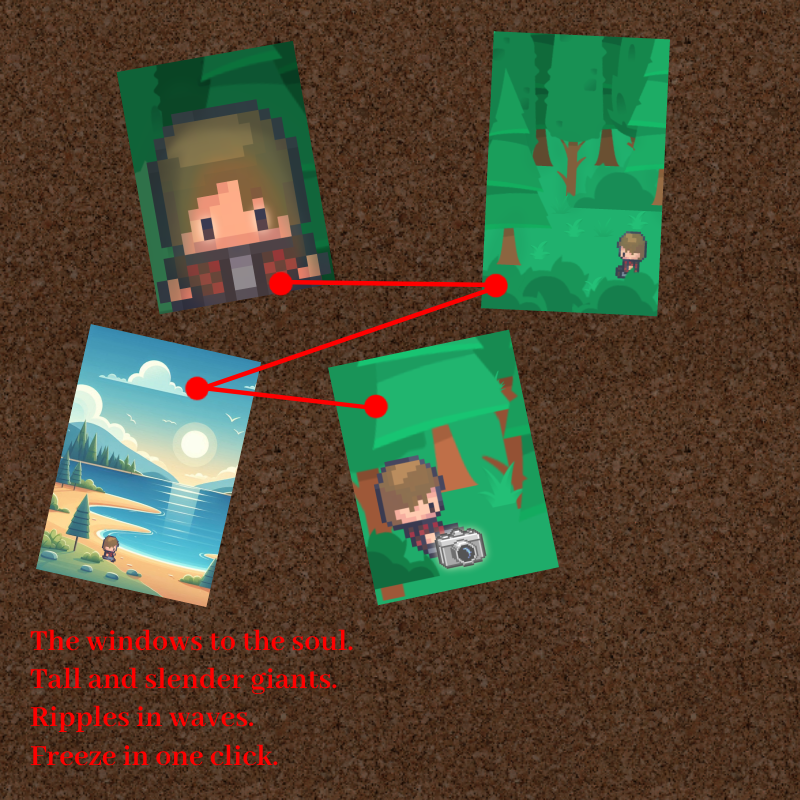
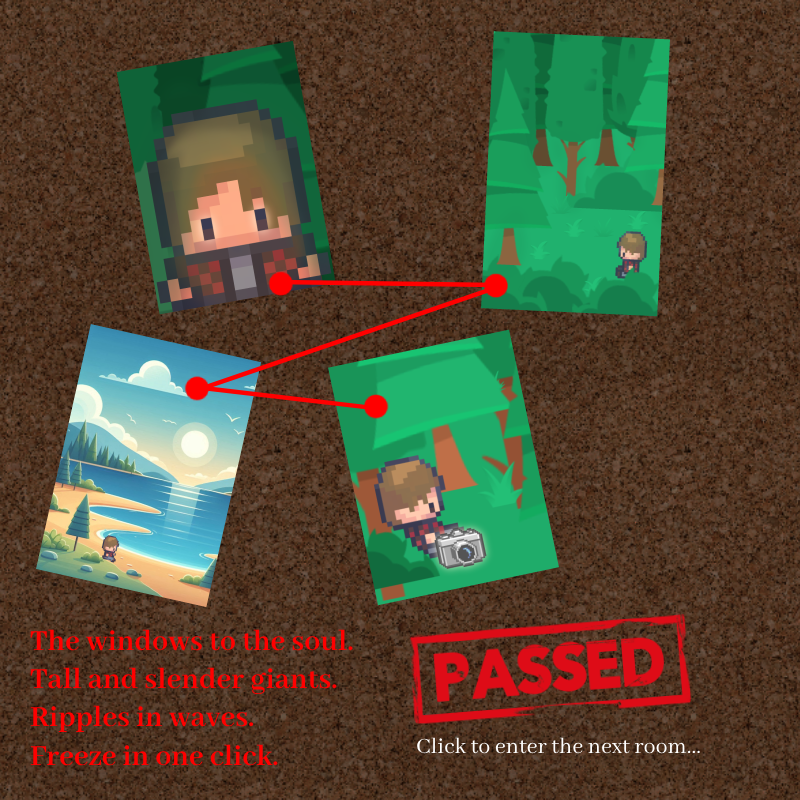
Implemented a password for room 2

Changed region(s): [[0.5, 0.75, 0.875, 0.9375]]

diff --git a/Sketch.java b/Sketch.java
@@ -110,7 +110,7 @@ public class Sketch extends PApplet {
 
   // Sets the passwords of the doors
   String[] strPasswords = {"", "", ""};
-  String[] strTargPass = {"2    4    1    3    ", "666", "Alex"};
+  String[] strTargPass = {"2 4 1 3 ", "6 6 6 ", "Alex"};
 
   // Array for the door objects drawn in the rooms
   PImage[] doors = new PImage[6];
@@ -148,13 +148,16 @@ public class Sketch extends PApplet {
 
   // Related arrays for the button images, x coordinates, and y coordinates for the second password
   PImage[] doorSecButt = new PImage[10];
-  int[] doorSecX;
-  int[] doorSecY;
+  int[] doorSecX = new int[10];
+  int[] doorSecY = new int[10];
 
   // Number of attempts for the first, second, and third password
   int intFirAtmpts = 3;
   int intSecAtmpts = 3;
   int intThiAtmpts = 3;
+
+  // PImage goodEnding;
+  PImage badEnding;
 
   // Set the size of the window
   public void settings() {
@@ -186,8 +189,8 @@ public class Sketch extends PApplet {
     roomOnePageY = new int[]{height * 254/800, height * 661/800, height * 663/800, height * 253/800};
 
     // Intializes the x and y values of the pages in room two based on the window size
-    roomTwoPageX = new int[]{width * 622/800, width * 506/800, width * 109/800};
-    roomTwoPageY = new int[]{height * 417/800, height * 291/800, height * 260/800};
+    roomTwoPageX = new int[]{width * 313/800, width * 506/800, width * 109/800};
+    roomTwoPageY = new int[]{height * 648/800, height * 291/800, height * 260/800};
 
     // Intializes the x and y values of the pages in room three based on the window size
     roomThreePageX = new int[]{width * 163/800, width * 549/800, width * 598/800, width * 321/800, width * 406/800, width * 246/800};
@@ -201,9 +204,26 @@ public class Sketch extends PApplet {
     doorFirstX = new int[] {373, 471, 569, 666};
     doorFirstY = new int[] {674, 674, 674, 674};
 
+    // Starting x and y values of the buttons in the second password
+    int intStartX = width * 100/800;
+    int intStartY = height * 400/800;
+
+    // Set the x and y positions of the buttons in the second password
+    for(int w = 0; w < doorSecButt.length; w++) {
+      
+      doorSecX[w] = intStartX;
+      doorSecY[w] = intStartY;
+      
+      if (intStartX == width * 580/800) {
+        intStartX = width * -20/800;
+        intStartY = width * 520/800;
+      }
+      intStartX += width * 120/800;
+    }
+
     // Set the x and y positions of the enter button for each of the three passwords
-    enterX = new int[] {666, 666, 666};
-    enterY = new int[] {588, 588, 588};
+    enterX = new int[] {width * 666/800, width * 580/800, 666};
+    enterY = new int[] {height * 588/800, height * 280/800, 588};
   }
 
   // Load and resize all images
@@ -357,6 +377,7 @@ public class Sketch extends PApplet {
     // Load all of the number buttons to be used in room 2
     for (int l = 0; l < doorSecButt.length; l ++) {
       doorSecButt[l] = loadImage("keyboard_" + l + ".png");
+      doorSecButt[l].resize(width * 96/800, height * 96/800);
     }
 
     cabinBack = loadImage("Cabin Room Template.png");
@@ -372,12 +393,23 @@ public class Sketch extends PApplet {
 
     // Load the stuff the doors show
     door1Text = loadImage("Door 1 Text.png");
-    door2Unpassed = loadImage("Door 2 Unpassed.png");
-    door2Unpassed.resize(width * door2Unpassed.width/800, height * door2Unpassed.height/800);
+    door2Unpassed = loadImage("Room 1 Code Unpassed.png");
+    door2Unpassed.resize(width, height);
     door2Passed = loadImage("Room 1 Code Pass.png");
+    door2Passed.resize(width, height);
+    door4Unpassed = loadImage("Room 2 Code Unpassed.png");
+    door4Unpassed.resize(width, height);
+    door4Passed = loadImage("Room 2 Code Passed.png");
+    door4Passed.resize(width, height);
+    door6Unpassed = loadImage("Room 3 Code Unpassed.png");
+    door6Unpassed.resize(width, height);
+
 
     enterButton = loadImage("enter.png");
     enterButton.resize(width * 96/800, height * 96/800);
+
+    badEnding = loadImage("BadEnding.png");
+    badEnding.resize(width, height);
 
   } 
 
@@ -400,7 +432,7 @@ public class Sketch extends PApplet {
     else if (intDraw == 3) {
       drawRoom1(); 
       drawAlex();
-      //detectWallCollision();
+      detectWallCollision();
       drawFlashlight();
       drawCurrentClue();
       doorResult();
@@ -411,22 +443,28 @@ public class Sketch extends PApplet {
       drawRoom2();
       drawAlex();
       //detectWallCollision();
-      //drawFlashlight();
+      drawFlashlight();
       drawCurrentClue();
+      doorResult();
     }
     // Draw room 3
     else if (intDraw == 5) {
       drawRoom3();
       drawAlex();
       //detectWallCollision();
-      //drawFlashlight();
+      drawFlashlight();
       drawCurrentClue();
+      doorResult();
+    }
+    else if (intDraw == 6) {
+      drawBadEnding();
     }
 
     // Temporary mouse coordinates for positioning purposes
-    textSize(16); // Set the text size
+    textSize(16); 
     String coords = "Mouse X: " + mouseX + ", Mouse Y: " + mouseY;
-    text(coords, 10, height - 20); // Display the coordinates at the bottom left
+    text(coords, 10, height - 20); 
+    
   }
   
   // Draws the start screen when intDraw = 0
@@ -529,6 +567,7 @@ public class Sketch extends PApplet {
   public void drawRoom2() {
     
     currentClueImage = null;
+    intCurDoor = -1;
 
     // Draws the background
     image(cabinBack, 0, 0);
@@ -549,6 +588,12 @@ public class Sketch extends PApplet {
       detectInteraction(roomTwoLetters[r], roomTwoPageX[r], roomTwoPageY[r], roomTwoPages[r].width, roomTwoPages[r].height);
     }
 
+    // Draws the doors in the room
+    image(doors[2], doorX[2], doorY[2]);
+    detectDoorInter(doorX[2], doorY[2], doors[2].width, doors[2].height, 2);
+    image(doors[3], doorX[3], doorY[3]);
+    detectDoorInter(doorX[3], doorY[3], doors[3].width, doors[3].height, 3);
+
     // Moves to the first room when Alex moves off to the left of the screen
     if (intAlexX < 0) {
       intDraw = 3;
@@ -565,6 +610,7 @@ public class Sketch extends PApplet {
   public void drawRoom3() {
 
     currentClueImage = null;
+    intCurDoor = -1;
 
     // Draws the background
     image(cabinBack, 0, 0);
@@ -590,7 +636,7 @@ public class Sketch extends PApplet {
       intDraw = 4;
       intAlexX = width;
     }
-    // Moves to the ending cutscene
+
   }
 
   // Detects collision with objects based on the x, y, width, and height parameters
@@ -651,8 +697,7 @@ public class Sketch extends PApplet {
         textSize(width * 50/800);
         text(strPasswords[0], width * 390/800, height * 650/800);
         
-        // Display the number of attempts left
-        fill(255, 0, 0);
+        // Determine the text size
         textSize(width * 20/800);
         
         // Turns the number of attempts left red when there is only one attempt left
@@ -662,7 +707,7 @@ public class Sketch extends PApplet {
         }
         // Ends the game when the player runs out of attempts
         else if (intFirAtmpts == 0) {
-          // Some end game thing here
+          intDraw = 6;
         }
         // Draws the number of attempts left white 
         else {
@@ -673,15 +718,56 @@ public class Sketch extends PApplet {
         image(enterButton, enterX[0], enterY[0]);
       }
       
+      // Draws the passed background when the player enters the correct password
       else if (boolDoorUnlocked[1]) {
         image(door2Passed, 0, 0);
       }
     }
     else if (intCurDoor == 2) {
-      intDraw = 3;
+      
     }
     else if (intCurDoor == 3) {
+      
+      if (!boolDoorUnlocked[3]) {
+        
+        // Display the background for the puzzle
+        image(door4Unpassed, 0, 0);
 
+        // Display the ten number keys to be clicked on
+        for (int g = 0; g < doorSecButt.length; g++) {
+          image(doorSecButt[g], doorSecX[g], doorSecY[g]);
+        }
+
+        // Display the password text
+        fill(255, 255, 255);
+        textSize(width * 50/800);
+        text(strPasswords[1], width * 122/800, height * 355/800);
+        
+        // Determine the text size
+        textSize(width * 20/800);
+        
+        // Turns the number of attempts left red when there is only one attempt left
+        if (intSecAtmpts == 1) {
+          fill(255, 0, 0);
+          text("Attempts Left: " + intSecAtmpts, width * 20/800, height * 30/800);
+        }
+        // Ends the game when the player runs out of attempts
+        else if (intSecAtmpts == 0) {
+          intDraw = 6;
+        }
+        // Draws the number of attempts left white 
+        else {
+          fill(255, 255, 255);
+          text("Attempts Left: " + intSecAtmpts, width * 20/800, height * 30/800);
+        }
+        // Draws the enter button
+        image(enterButton, enterX[1], enterY[1]);
+      }
+      
+      // Draws the passed background when the player enters the correct password
+      else if (boolDoorUnlocked[3]) {
+        image(door4Passed, 0, 0);
+      }
     }
     else if (intCurDoor == 4) {
 
@@ -714,15 +800,21 @@ public class Sketch extends PApplet {
 }
 
   public void detectWallCollision() {
-     if (intAlexX - alexIdleForward.width / 2 < width * 66/800 || intAlexX + alexIdleForward.width / 2 > 739 || intAlexY + alexIdleForward.height / 2 > width * 776/800 || intAlexY < height * 209/800){
+     if (intAlexX - alexIdleForward.width / 2 < width * 66/800 || intAlexX + alexIdleForward.width / 2 > width * 739/800 || intAlexY + alexIdleForward.height / 2 > height * 776/800 || intAlexY < height * 209/800){
       
       intAlexX = intAlexPrevX;
       intAlexY = intAlexPrevY;
      }
   }
 
-  public void drawEnd() {
-    // Some random thingy here I suppose
+  // Draws a bad ending when intDraw = 6
+  public void drawBadEnding() {
+    image(badEnding, 0, 0);
+  }
+
+  // Draws a good ending when intDraw = 7
+  public void drawGoodEnding() {
+
   }
 
   // Draws a flashlight for Alex
@@ -796,12 +888,14 @@ public class Sketch extends PApplet {
       if (!strLorR.equals("Right")) {
         // Draws the first sprite
         if (intSprite == 1) {
+          
           imageMode(CENTER);
           image(alexLeft1, intAlexX, intAlexY);
           imageMode(CORNER);
         }
         // Draws the second sprite
         else if (intSprite == 2) {
+          
           imageMode(CENTER);
           image(alexLeft2, intAlexX, intAlexY);
           imageMode(CORNER);
@@ -821,6 +915,7 @@ public class Sketch extends PApplet {
       if (!strLorR.equals("Left")) {
         // Draws the first sprite
         if (intSprite == 1) {
+          
           imageMode(CENTER);
           image(alexRight1, intAlexX, intAlexY);
           imageMode(CORNER);
@@ -828,6 +923,7 @@ public class Sketch extends PApplet {
 
         // Draws the second sprite
         else if (intSprite == 2) {
+          
           imageMode(CENTER);
           image(alexRight2, intAlexX, intAlexY);
           imageMode(CORNER);
@@ -858,21 +954,25 @@ public class Sketch extends PApplet {
     // Draws Alex's idle
     if (!keyPressed){
       if (strDir.equals("Down")) {
+        
         imageMode(CENTER);
         image(alexIdleBack, intAlexX, intAlexY);
         imageMode(CORNER);
       }
       else if (strDir.equals("Up")) {
+        
         imageMode(CENTER);
         image(alexIdleForward, intAlexX, intAlexY);
         imageMode(CORNER);
       }
       else if (strDir.equals("Left")) {
+        
         imageMode(CENTER);
         image(alexIdleLeft, intAlexX, intAlexY);
         imageMode(CORNER);
       }
       else if (strDir.equals("Right")) {
+        
         imageMode(CENTER);
         image(alexIdleRight, intAlexX, intAlexY);
         imageMode(CORNER);
@@ -954,10 +1054,16 @@ public class Sketch extends PApplet {
     // Checks the players mouse interactions in the first room
     else if (intDraw == 3) {
       
+      // Allows the player to move to the next room when the mouse button is pressed and resets Alex's x position
+      if (boolDoorUnlocked[1]) {
+        intAlexX = width * 105/800;
+        intDraw = 4;
+      }
+
       // Updates the password based on the number keys the player clicks on
       for (int h = 0; h < doorFirstX.length; h++) {
         if (mouseX > doorFirstX[h] && mouseX < doorFirstX[h] + doorFirstButt[h].width && mouseY > doorFirstY[h] && mouseY < doorFirstY[h] + doorFirstButt[h].height) {
-          strPasswords[0] += (h + 1) + "    ";
+          strPasswords[0] += (h + 1) + " ";
         }
       }
       // Checks if the enter button has been pushed
@@ -975,9 +1081,33 @@ public class Sketch extends PApplet {
     }
     // Checks the players mouse interactions in the second room
     else if (intDraw == 4) {
+      
+      /// Allows the player to move to the next room when the mouse button is pressed and resets Alex's x position
+      if (boolDoorUnlocked[3]) {
+        intAlexX = width * 105/800;
+        intDraw = 5;
+      }
 
+      // Updates the password based on the number keys the player clicks on
+      for (int t = 0; t < doorSecX.length; t++) {
+        if (mouseX > doorSecX[t] && mouseX < doorSecX[t] + doorSecButt[t].width && mouseY > doorSecY[t] && mouseY < doorSecY[t] + doorSecButt[t].height) {
+          strPasswords[1] += t + " ";
+        }
+      }
+      // Checks if the enter button has been pushed
+      if (mouseX > enterX[1] && mouseX < enterX[1] + enterButton.width && mouseY > enterY[1] && mouseY < enterY[1] + enterButton.height) {
+        if (strPasswords[1].equals(strTargPass[1])) {
+        
+          // Unlocks the door
+          boolDoorUnlocked[3] = true;
+        }
+        else {
+          intSecAtmpts--;
+          strPasswords[1] = "";
+        }
+      }
     }
-    // Checks the players mouse interactions int he third room
+    // Checks the players mouse interactions in the third room
     else if (intDraw == 5) {
 
     }
